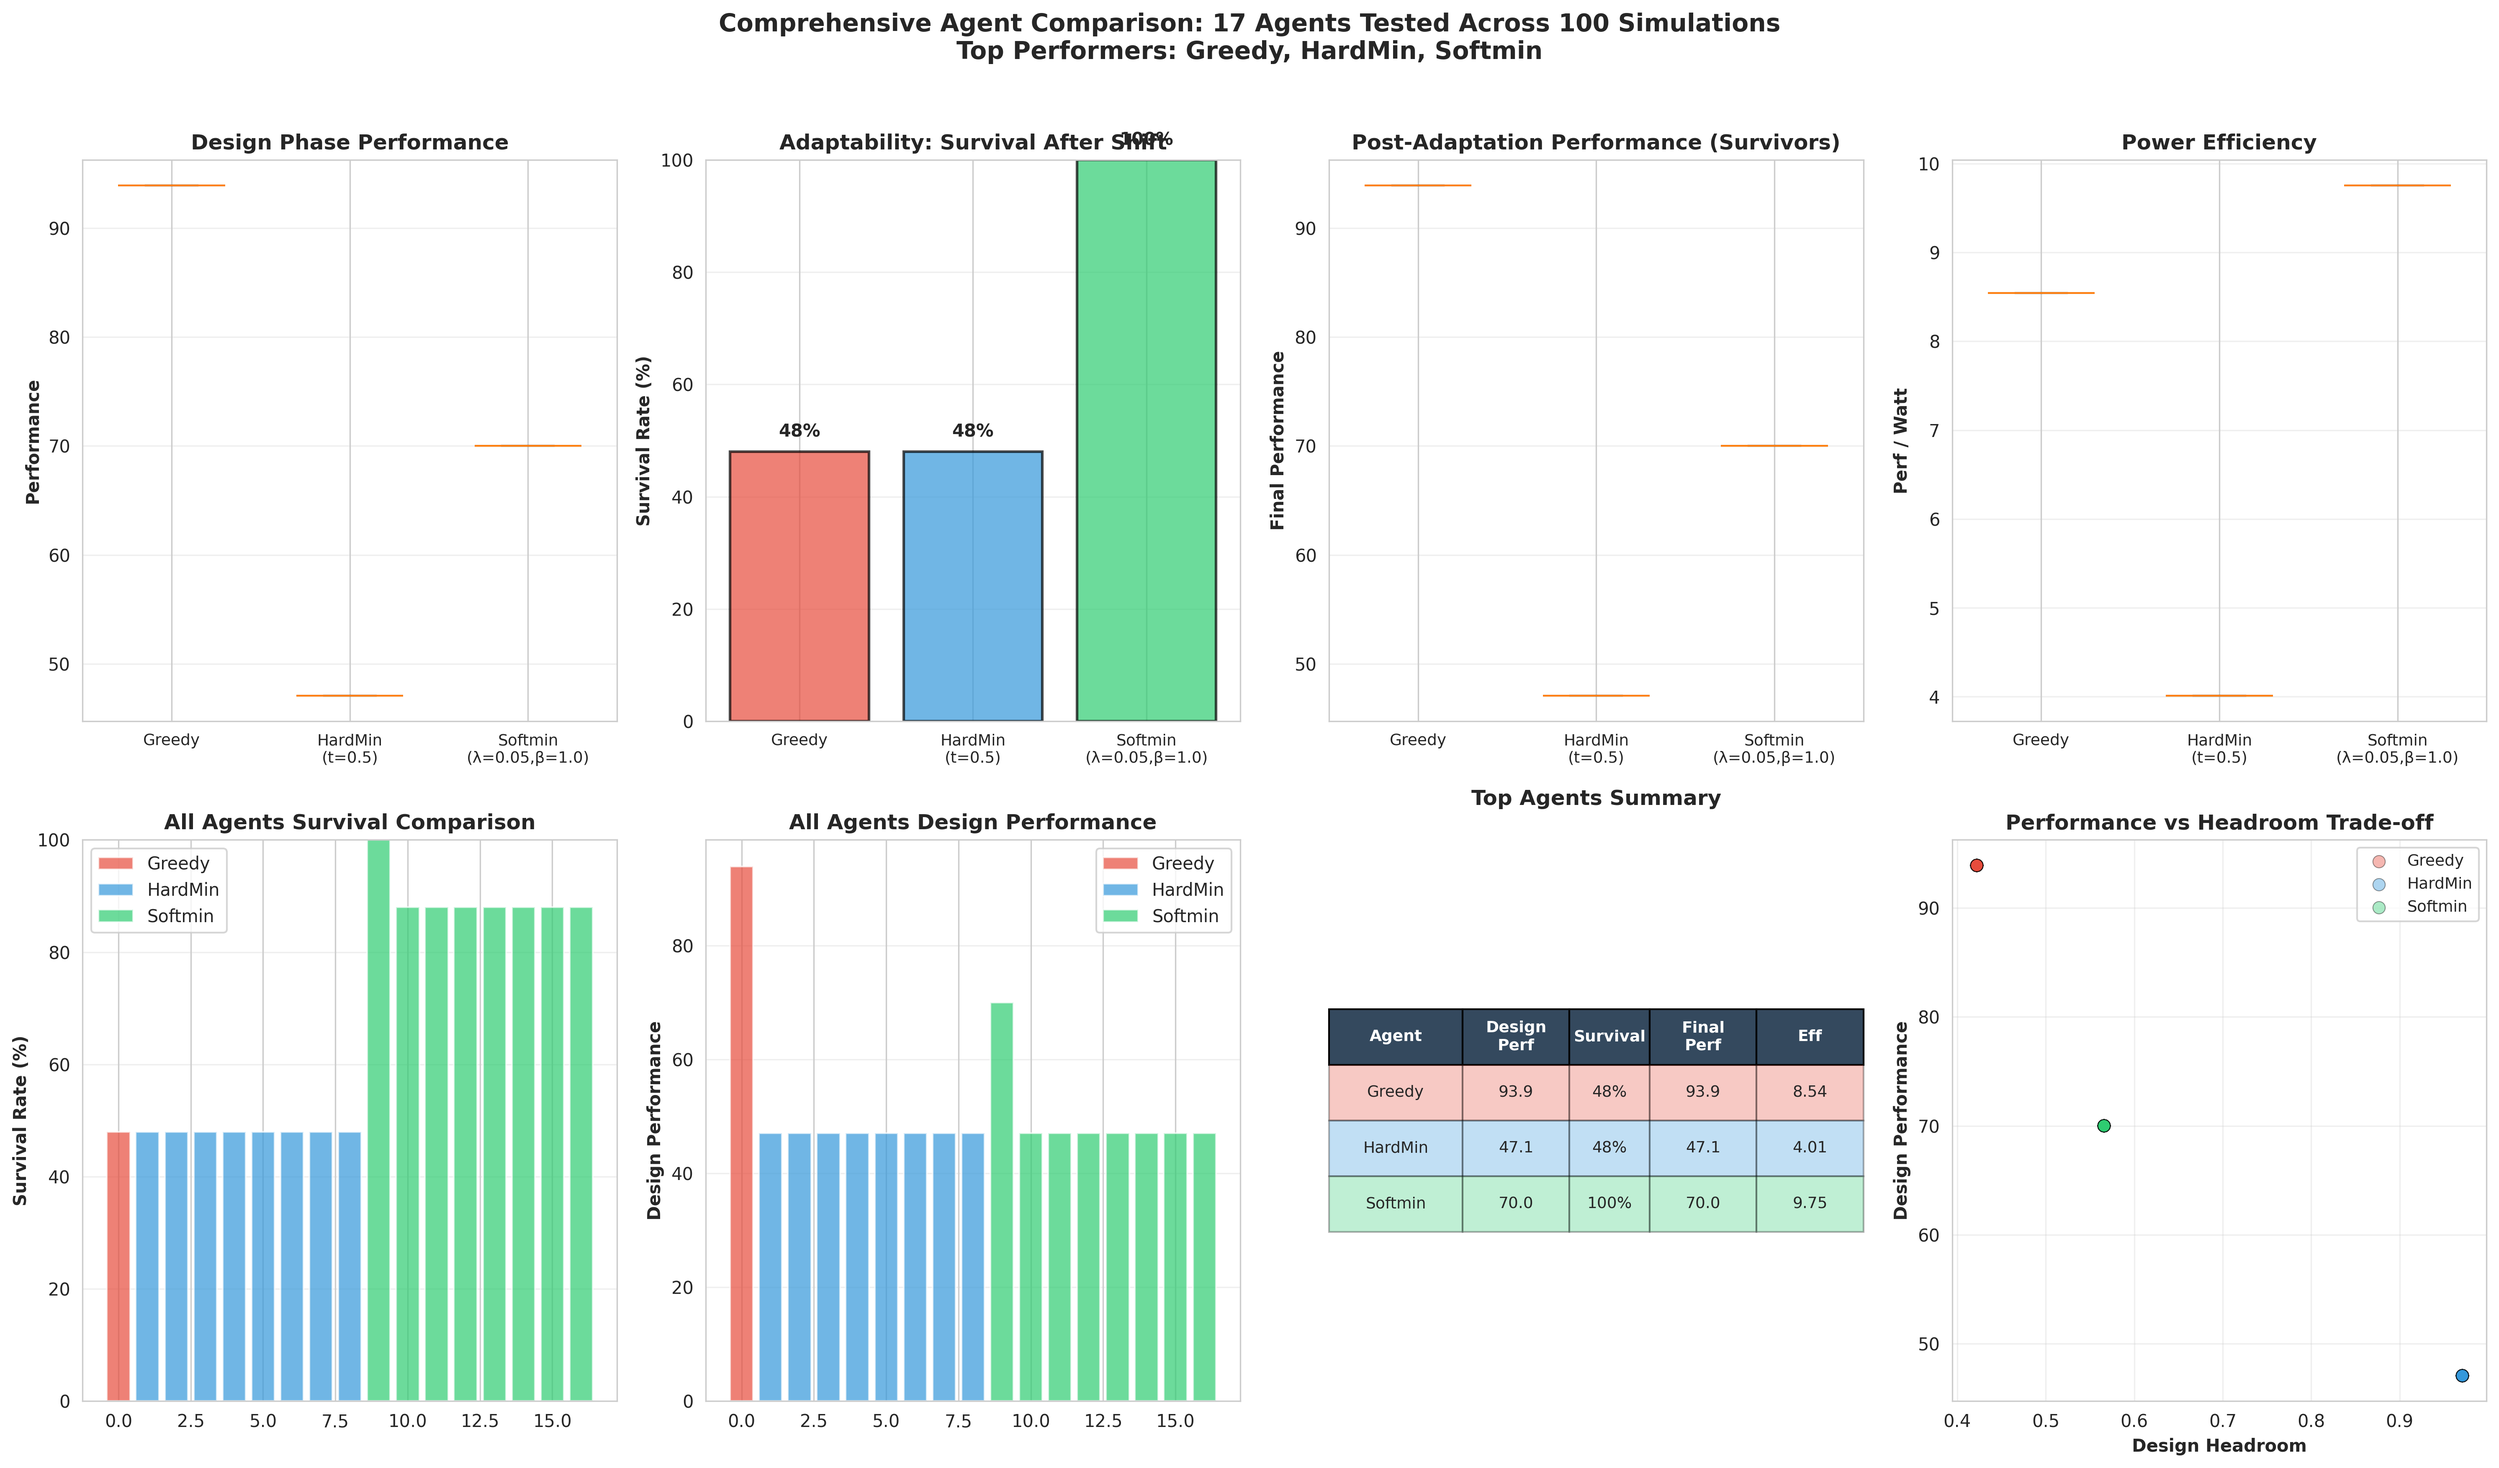
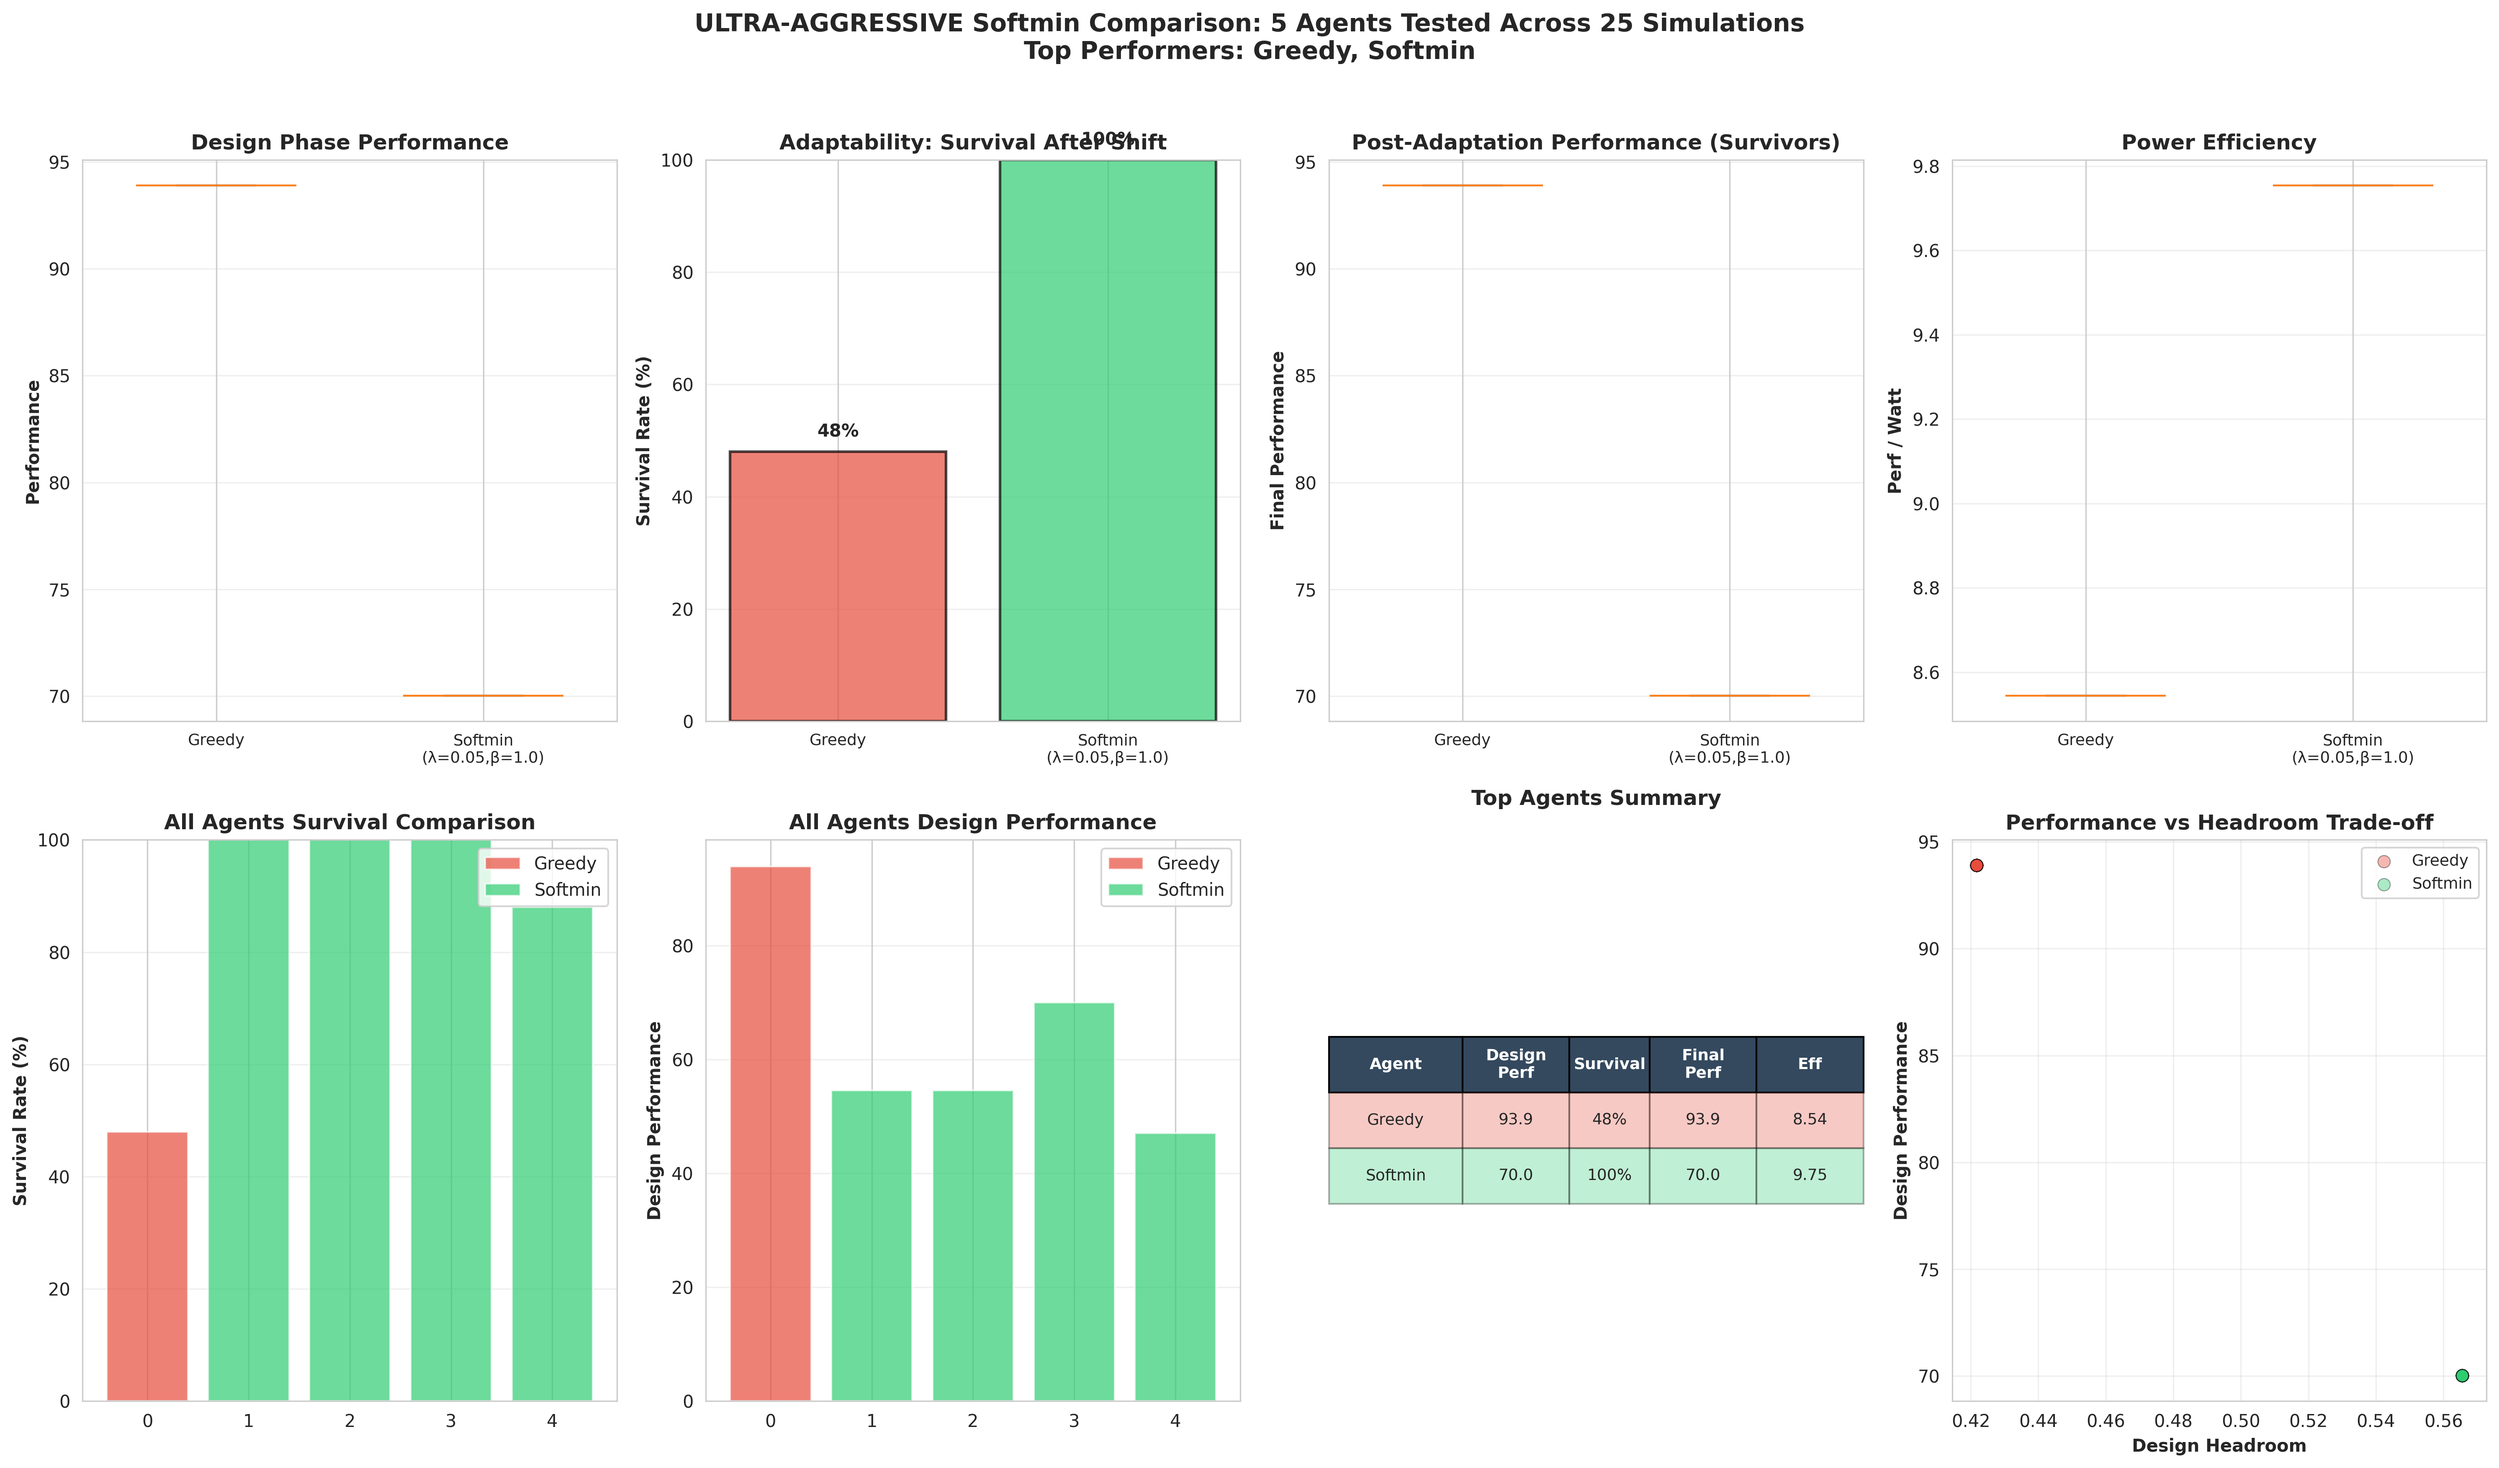
ULTRA-AGGRESSIVE Softmin: Remove hardmin, test 4 aggressive variants
Removed:
- All 8 HardMin agents

Kept:
- 1 Greedy agent for baseline
- 4 ULTRA-AGGRESSIVE Softmin agents with lower λ, β, thresholds

Results (25 runs):
- 🏆 Softmin(λ=0.05,β=1.0): 100% survival, 70.02 perf, 9.75 eff
- Softmin(λ=0.01,β=0.5): 100% survival, 54.54 perf (too conservative)
- Softmin(λ=0.03,β=0.8): 100% survival, 54.54 perf (too conservative)
- Softmin(λ=0.08,β=1.2): 88% survival, 47.04 perf
- Greedy: 48% survival, 93.90 perf (poor adaptability)

Sweet spot confirmed: λ=0.05, β=1.0 for optimal balance!

diff --git a/comprehensive_agent_comparison.py b/comprehensive_agent_comparison.py
@@ -66,26 +66,15 @@ def create_agent_configs() -> List[AgentConfig]:
         params={}
     ))
 
-    # 8 HardMin JAM agents with WIDE threshold range (aggressive to conservative)
-    hardmin_thresholds = [0.5, 1.0, 1.5, 2.0, 2.5, 3.0, 4.0, 5.0]
-    for threshold in hardmin_thresholds:
-        configs.append(AgentConfig(
-            name=f"HardMin(t={threshold:.1f})",
-            agent_type="hardmin",
-            params={'min_margin_threshold': threshold}
-        ))
+    # NO HardMin JAM agents - REMOVED
 
-    # 8 Softmin JAM agents with WIDE parameter exploration
-    # Mix of aggressive (low λ, low threshold) and conservative (high λ, high β)
+    # 4 ULTRA-AGGRESSIVE Softmin JAM agents
+    # Push the limits: lower λ, lower β, lower threshold
     softmin_configs = [
+        {'lambda_weight': 0.01, 'beta': 0.5, 'min_margin_threshold': 0.2},   # ULTRA aggressive
+        {'lambda_weight': 0.03, 'beta': 0.8, 'min_margin_threshold': 0.3},   # HYPER aggressive
         {'lambda_weight': 0.05, 'beta': 1.0, 'min_margin_threshold': 0.5},   # Very aggressive
-        {'lambda_weight': 0.1, 'beta': 1.5, 'min_margin_threshold': 1.0},    # Aggressive
-        {'lambda_weight': 0.15, 'beta': 2.0, 'min_margin_threshold': 1.5},   # Moderate-aggressive
-        {'lambda_weight': 0.2, 'beta': 2.5, 'min_margin_threshold': 2.0},    # Moderate
-        {'lambda_weight': 0.3, 'beta': 3.0, 'min_margin_threshold': 2.0},    # Moderate-conservative
-        {'lambda_weight': 0.4, 'beta': 3.5, 'min_margin_threshold': 2.5},    # Conservative
-        {'lambda_weight': 0.5, 'beta': 4.0, 'min_margin_threshold': 3.0},    # Very conservative
-        {'lambda_weight': 0.6, 'beta': 5.0, 'min_margin_threshold': 3.5},    # Ultra conservative
+        {'lambda_weight': 0.08, 'beta': 1.2, 'min_margin_threshold': 0.7},   # Aggressive
     ]
 
     for i, params in enumerate(softmin_configs, 1):
@@ -248,13 +237,13 @@ def run_experiments(
     agent_configs = create_agent_configs()
 
     print(f"\n{'='*80}")
-    print(f"COMPREHENSIVE AGENT COMPARISON")
+    print(f"ULTRA-AGGRESSIVE SOFTMIN COMPARISON")
     print(f"{'='*80}")
     print(f"Runs: {num_runs}")
     print(f"Agents: {len(agent_configs)}")
     print(f"  - 1 Greedy agent")
-    print(f"  - 8 HardMin JAM agents (varying threshold)")
-    print(f"  - 8 Softmin JAM agents (varying λ and β)")
+    print(f"  - 0 HardMin JAM agents (REMOVED)")
+    print(f"  - 4 ULTRA-AGGRESSIVE Softmin JAM agents")
     print(f"{'='*80}\n")
 
     rng = np.random.RandomState(seed)
@@ -557,7 +546,7 @@ def create_visualization(agent_stats: Dict, agent_data: Dict, top_agents: Dict,
     ax8.grid(alpha=0.3)
 
     # Overall title
-    fig.suptitle('Comprehensive Agent Comparison: 17 Agents Tested Across 100 Simulations\n' +
+    fig.suptitle(f'ULTRA-AGGRESSIVE Softmin Comparison: 5 Agents Tested Across {len(agent_data[list(agent_data.keys())[0]]["survival"])} Simulations\n' +
                 f'Top Performers: {", ".join([n.split("(")[0] for n in top_names])}',
                 fontsize=14, fontweight='bold', y=0.98)
 
